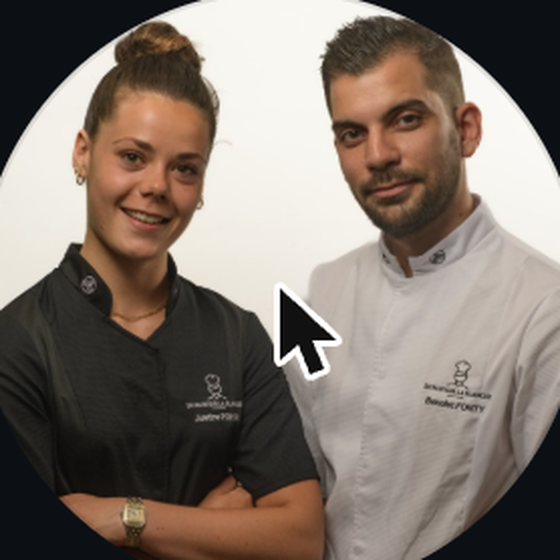
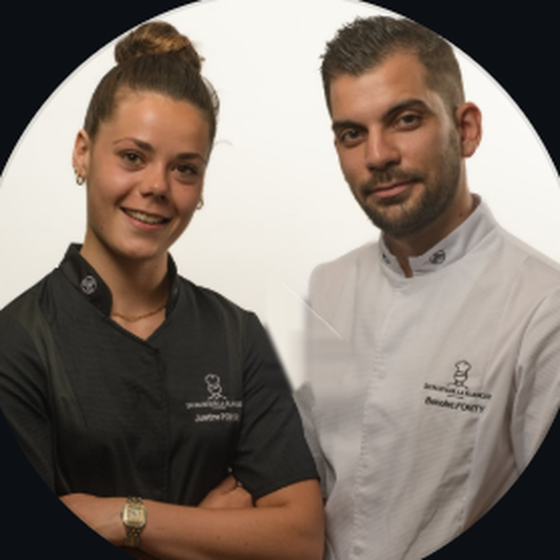
Planche à pain plus lisible (baguette posée dessus), formes plus espacées, curseur retiré de la photo des fondateurs

Changed region(s): [[0.4554, 0.4857, 0.6071, 0.7286]]

diff --git a/js/main.js b/js/main.js
@@ -68,16 +68,18 @@ document.addEventListener('DOMContentLoaded', function () {
     if (kind === 'plank') {
       var pl = [
         { d: 'M28 40V14c0-6 4-10 12-10s12 4 12 10v26', f: '#C9985F' },
-        { d: 'M14 40h52c6 0 10 4 10 10v86c0 6-4 10-10 10H14c-6 0-10-4-10-10V50c0-6 4-10 10-10Z', f: '#D9AC72' },
-        { d: 'M10 128v8c0 3 2 5 5 5h50c3 0 5-2 5-5v-8', f: '#B98A52', s: false, o: 0.8 },
-        circ(40, 17, 4.6, '#F7F0E1'),
-        { d: 'M18 58c3 20 3 44 0 66M30 54c3 22 3 50 0 74M50 54c-3 22-3 50 0 74M62 58c-3 20-3 44 0 66', f: null, w: 1.2, o: 0.5 },
-        { d: 'M14 46h52', f: null, w: 1.1, o: 0.35 },
-        { d: 'M20 116C16 100 30 82 44 82s24 10 22 26c-2 12-14 20-26 20-10 0-18-4-20-12Z', f: '#E3B26E' },
-        { d: 'M28 92c10 6 22 6 32 2M26 104c12 6 26 6 38 0', f: null, w: 1.5, o: 0.8 },
-        { d: 'M24 96c8-8 24-12 36-6-8-2-24 0-36 6Z', f: '#F6DFAE', s: false }
+        { d: 'M12 40h56c6 0 10 4 10 10v88c0 6-4 10-10 10H12c-6 0-10-4-10-10V50c0-6 4-10 10-10Z', f: '#D9AC72' },
+        circ(40, 17, 4.8, '#F7F0E1'),
+        { d: 'M14 52h52c3 0 5 2 5 5v76c0 3-2 5-5 5H14c-3 0-5-2-5-5V57c0-3 2-5 5-5Z', f: '#E4BC84', w: 1.3, o: 0.9 }
       ];
-      return render('0 0 80 152', pl);
+      var boardSvg = render('0 0 80 152', pl);
+      var bag = '<g transform="rotate(-58 40 98)">' +
+        (filled ? '<path d="M3.4 100c0-7 5-11 12-11h54c7 0 12 4 12 11s-5 11-12 11H15.4c-7 0-12-4-12-11Z" fill="' + GD + '" transform="translate(1.6,2)"/>' : '') +
+        '<path d="M2 98c0-7 5-11 12-11h54c7 0 12 4 12 11s-5 11-12 11H14c-7 0-12-4-12-11Z" fill="' + (filled ? G : 'none') + '" stroke="' + (filled ? LINE : OL) + '" stroke-width="2.2" stroke-linejoin="round"/>' +
+        '<path d="M16 93l9 10M30 92l9 11M44 92l9 11M58 93l9 10" fill="none" stroke="' + (filled ? LINE : OL) + '" stroke-width="2.4" stroke-linecap="round"/>' +
+        (filled ? '<path d="M10 92c20-4 44-4 66 0" fill="none" stroke="' + GL + '" stroke-width="2.4" stroke-linecap="round"/>' : '') + '</g>';
+      var crumbs = '<g fill="' + (filled ? GD : OL) + '"><circle cx="14" cy="132" r="1.6"/><circle cx="24" cy="138" r="1.2"/><circle cx="62" cy="64" r="1.5"/><circle cx="56" cy="58" r="1.1"/></g>';
+      return boardSvg.replace('</svg>', crumbs + bag + '</svg>');
     }
     if (kind === 'baguette') {
       var parts = [
@@ -217,7 +219,7 @@ document.addEventListener('DOMContentLoaded', function () {
   var SIZES = { baguette: 210, eclair: 150, boule: 96, tarte: 92, croissant: 130, macaron: 90, epi: 56, tranche: 76, 'pain-choc': 130, religieuse: 76, 'paris-brest': 116 };
   function autoItems(host, idx) {
     var h = host.offsetHeight, out = [];
-    var n = host.classList.contains('page-header') ? 3 : Math.max(2, Math.floor(h / 230));
+    var n = host.classList.contains('page-header') ? 2 : Math.max(2, Math.min(5, Math.floor(h / 300)));
     for (var i = 0; i < n; i++) {
       var kind = POOL[(i * 3 + idx * 2) % POOL.length];
       out.push([kind, 0, 0, SIZES[kind] * 1.1, (i % 2 ? -1 : 1) * (6 + (i * 7) % 14), 'back', 0.25 + (i % 3) * 0.1, i % 2]);
@@ -294,7 +296,7 @@ document.addEventListener('DOMContentLoaded', function () {
         var y = f.hang ? 0 : pad + rnd() * Math.max(1, lh - h - 2 * pad);
         var cand = { x: x - 14, y: y - 8, r: x + w + 14, b: y + h + 8 };
         if (covers.some(function (c) { return hit(cand, c); })) continue;
-        if (placed.some(function (c) { return hit({ x: cand.x - 26, y: cand.y - 26, r: cand.r + 26, b: cand.b + 26 }, c); })) continue;
+        if (placed.some(function (c) { return hit({ x: cand.x - 70, y: cand.y - 70, r: cand.r + 70, b: cand.b + 70 }, c); })) continue;
         f.el.style.left = x + 'px'; f.el.style.top = y + 'px';
         placed.push(cand); ok = true;
       }
@@ -321,9 +323,9 @@ document.addEventListener('DOMContentLoaded', function () {
       if (!host.classList.contains('fx-host')) { host.classList.add('fx-host'); }
       var layer = host.querySelector('.fx-layer.fx-back');
       if (!layer) { layer = document.createElement('div'); layer.className = 'fx-layer fx-back'; layer.setAttribute('aria-hidden', 'true'); host.appendChild(layer); }
-      var covers = coverRects(host, 12, 6), lw = layer.clientWidth, rnd = seeded(31 + Math.round(lw)), placed = [], made = 0, want = isSmall ? 3 : 4;
+      var covers = coverRects(host, 12, 6), lw = layer.clientWidth, rnd = seeded(31 + Math.round(lw)), placed = [], made = 0, want = isSmall ? 2 : 3;
       for (var t = 0; t < 260 && made < want; t++) {
-        var w = (isSmall ? 40 : 50) + Math.round(rnd() * 24), L = 6 + Math.round(rnd() * (isSmall ? 40 : 90)), ph = w * 1.9;
+        var w = (isSmall ? 50 : 66) + Math.round(rnd() * 22), L = 6 + Math.round(rnd() * (isSmall ? 40 : 90)), ph = w * 1.9;
         var x = 16 + rnd() * Math.max(1, lw - w - 32);
         var cand = { x: x - 10, y: 0, r: x + w + 10, b: L + ph + 8 };
         if (covers.some(function (c) { return hit(cand, c); })) continue;
